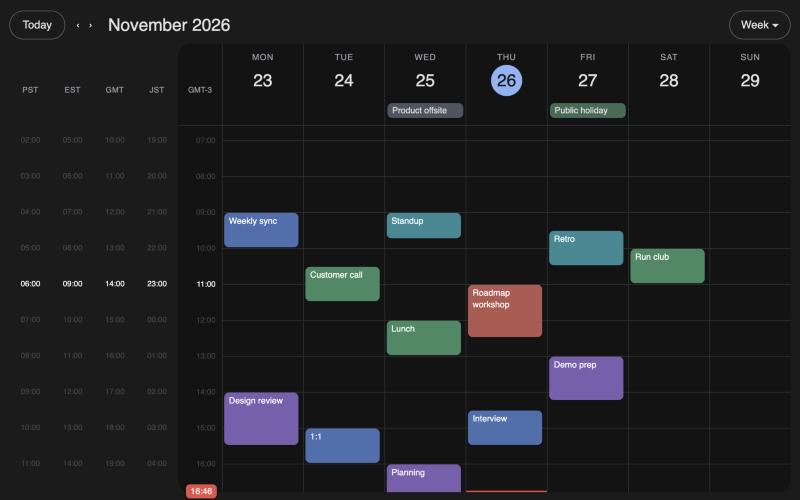
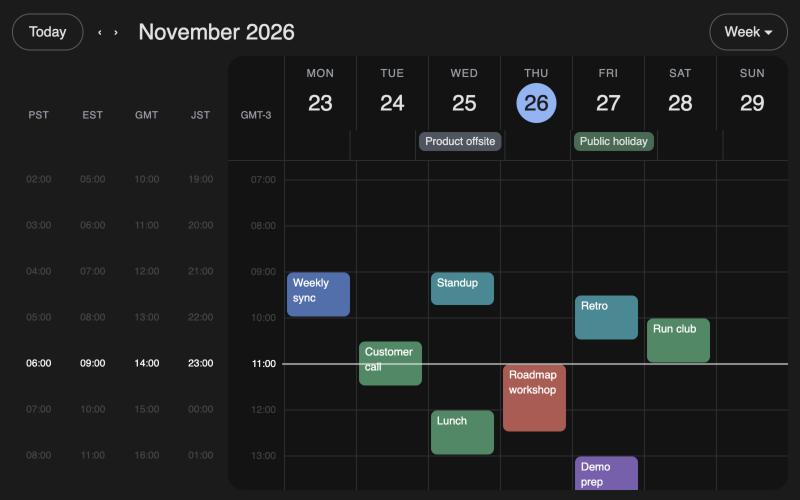
Update hover screenshot to show the line across the grid

diff --git a/store/listing.md b/store/listing.md
@@ -28,7 +28,7 @@ Private by design: World Time does not collect or send any calendar data. It onl
 World Time for Google Calendar is an independent extension and is not affiliated with or endorsed by Google.
 
 **Screenshots** (640x400 PNG, in this folder, upload in this order; the store allows up to 5):
-1. `screenshot-1-hover.png`: hover a row to compare one hour across timezones
+1. `screenshot-1-hover.png`: hover a row to compare one hour across timezones, with the line across the grid
 2. `screenshot-2-dst-midweek.png`: daylight saving change inside the week
 3. `screenshot-3-dst-next-week.png`: "next week" heads-up at the edge of the week before a change
 4. `screenshot-4-settings.png`: the popup, where you add timezones and set preferences

diff --git a/README.md b/README.md
@@ -20,7 +20,7 @@ Hover any row in the extra columns: that hour lights up across every timezone, i
 column, the other rows fade back, and a thin line marks that hour across the calendar grid (drawn on top of Google's own
 line, and switchable in the popup), so you can read one moment across the world at a glance.
 
-![Hovering the 11:00 row highlights 06:00 PST, 09:00 EST, 14:00 GMT and 23:00 JST while the other rows fade](docs/hover.jpg)
+![Hovering the 11:00 row highlights 06:00 PST, 09:00 EST, 14:00 GMT and 23:00 JST while the other rows fade and a line marks the 11:00 hour across the grid](docs/hover.jpg)
 
 ### Daylight saving notices
 
